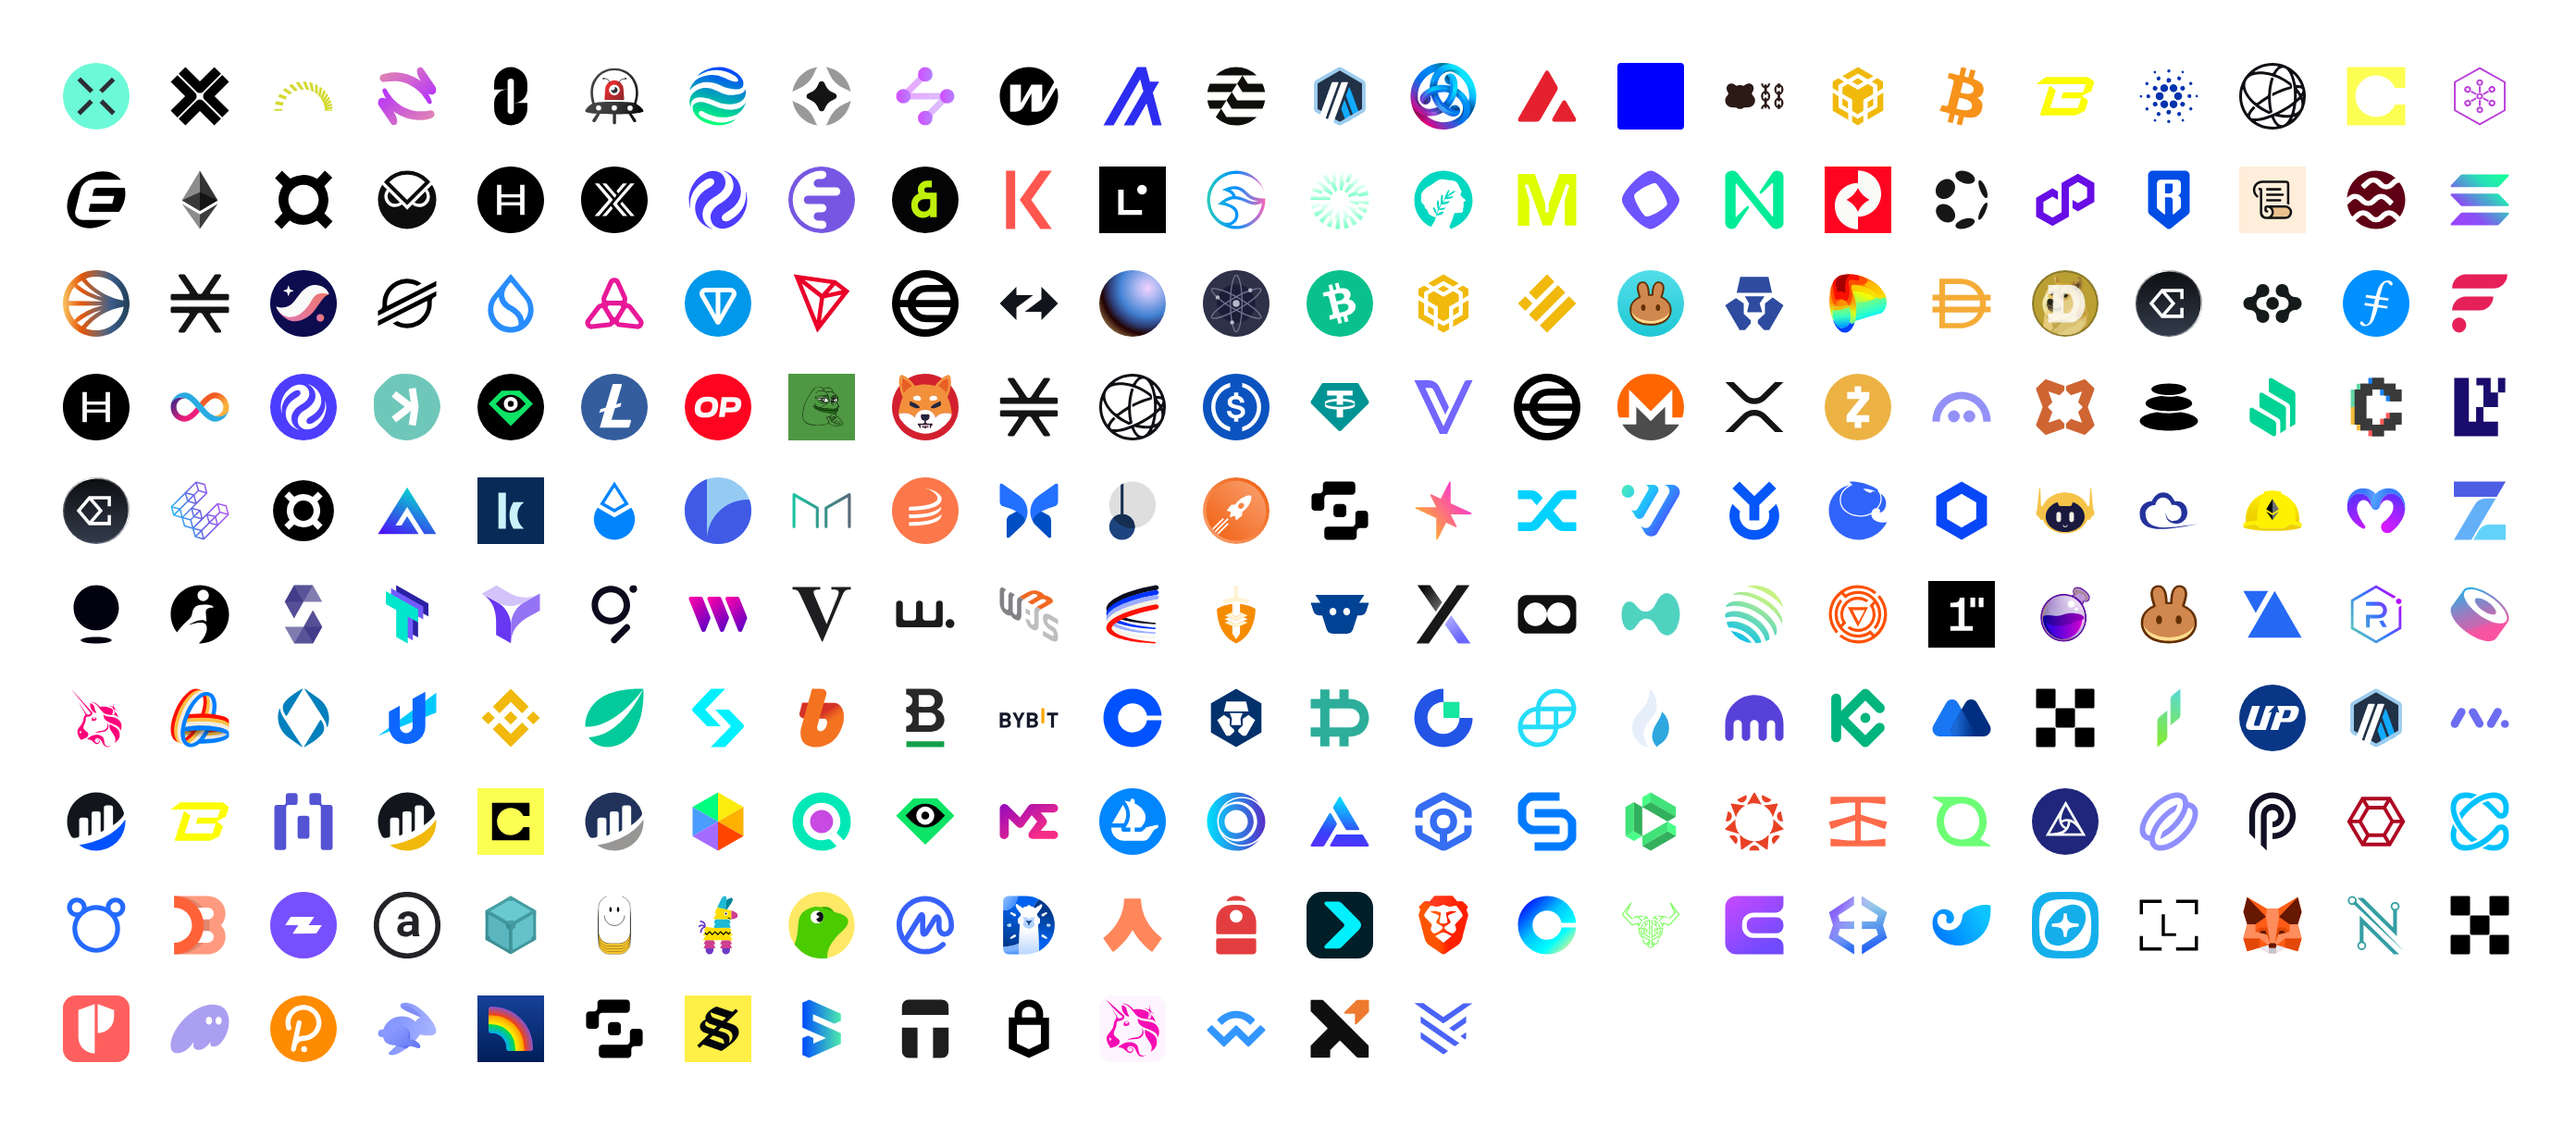
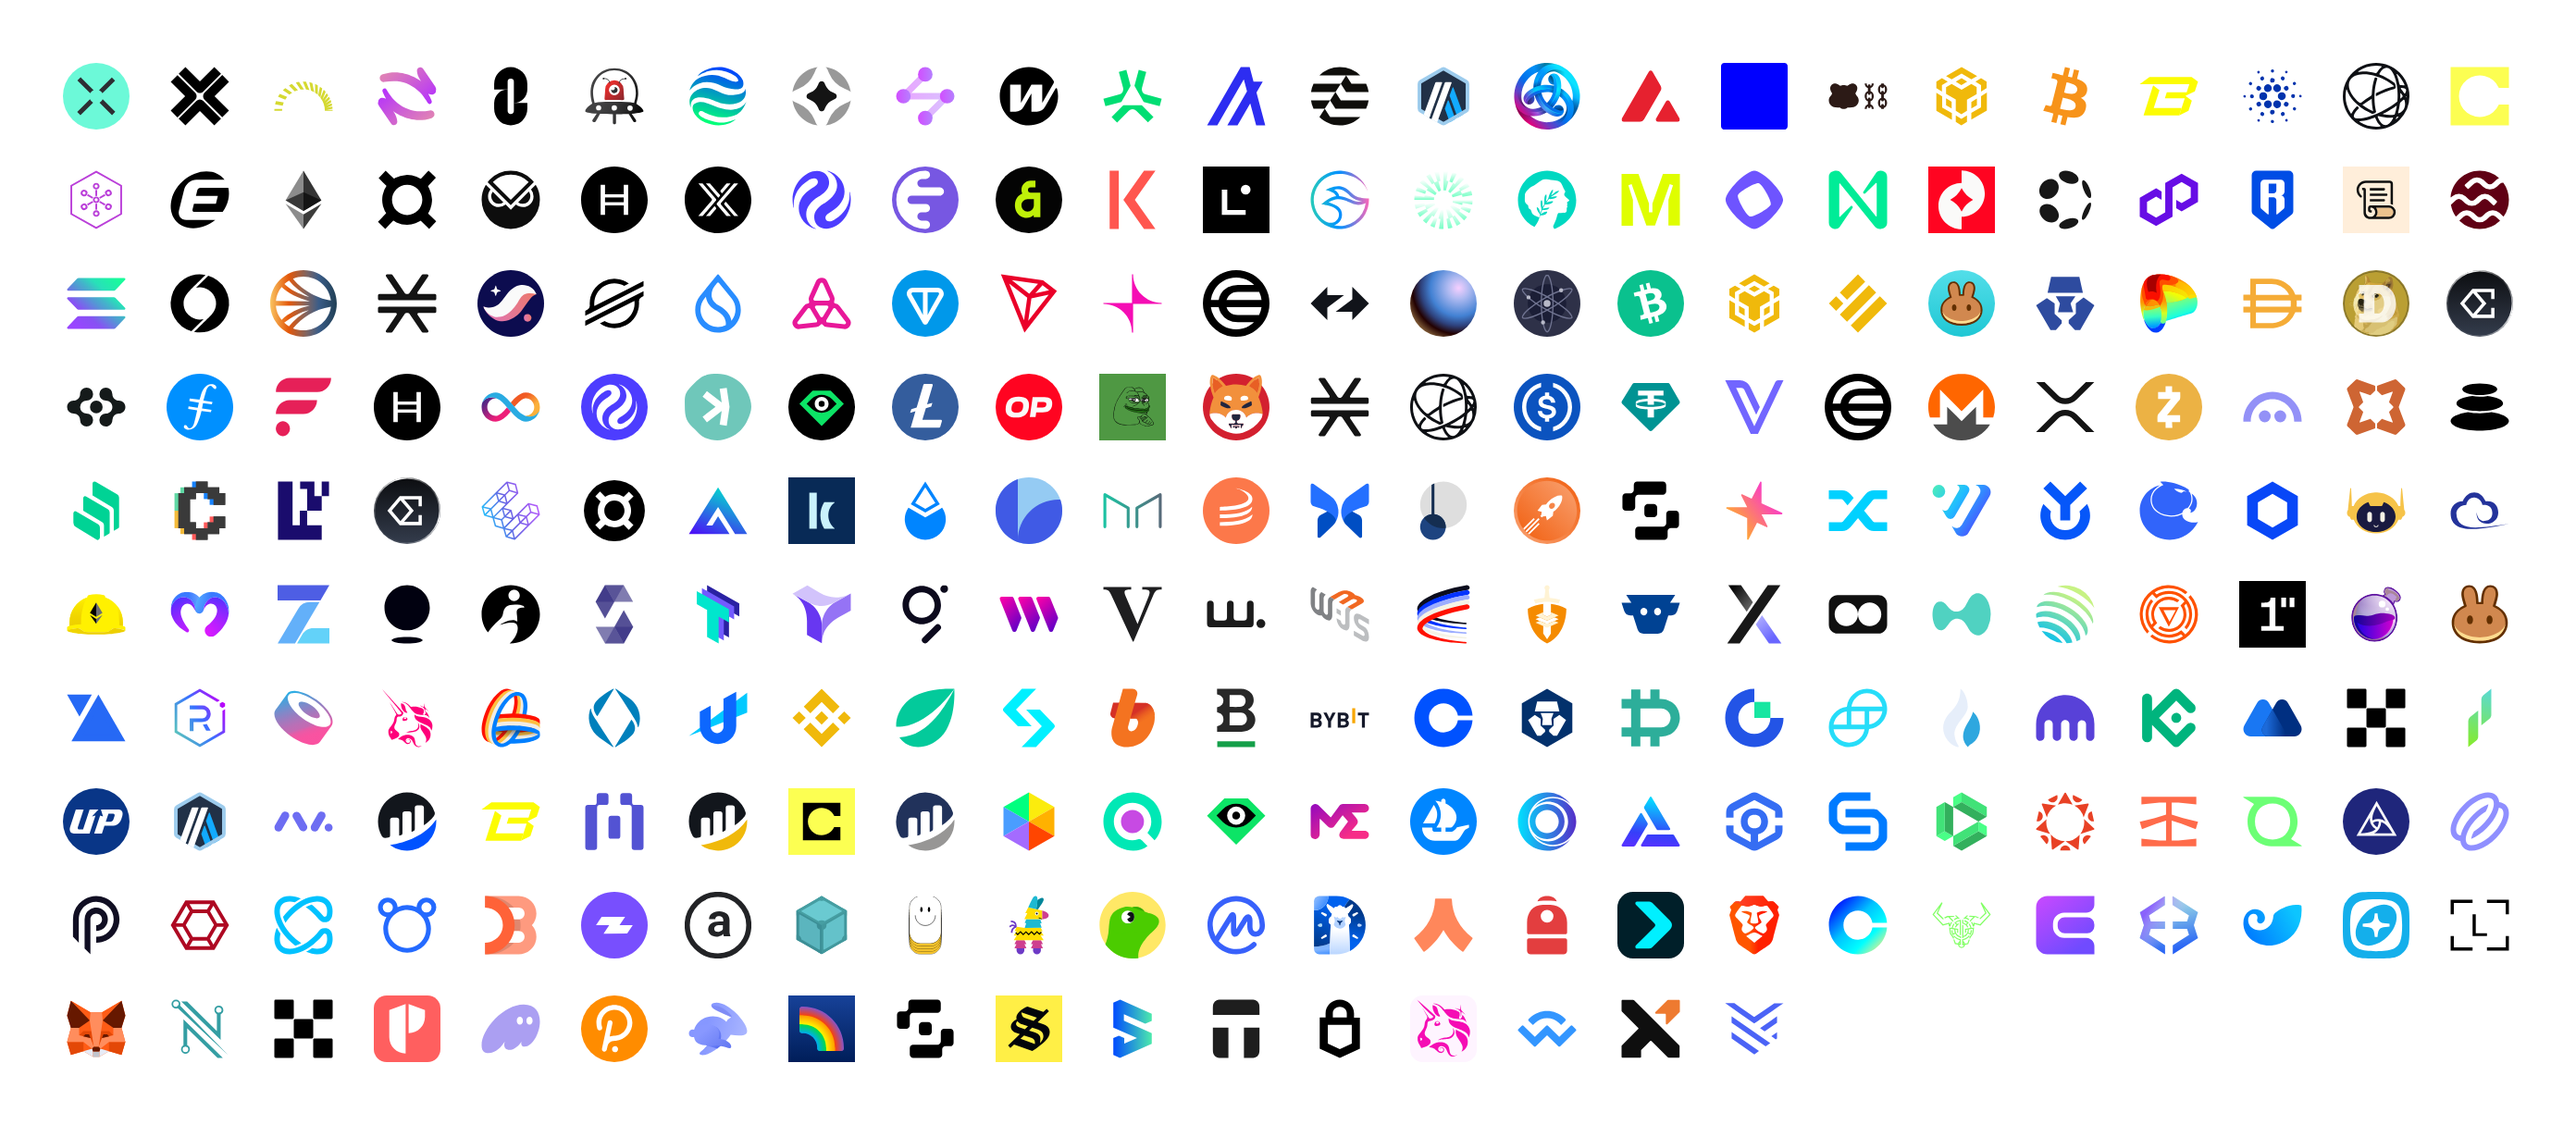
feat(chain): add Unichain, Abstract, Soneium and opBNB (#856)
Unichain (130), Abstract (2741) and Soneium (1868) come from official
brand assets with Default + Mono variants. opBNB (204) re-exports the
BNB Chain symbol it uses as OpBnb / OpBnbMono. Chain IDs verified on
chainlist.org. Story (1514) is not added: it has rebranded to DATA
Network.

Refs #706

Claude-Session: https://claude.ai/code/session_0113jxgcTGsEPf2j7H39sjZS

Changed region(s): [[0.0, 0.0312, 1.0, 0.9688]]

diff --git a/src/chain/Soneium.tsx b/src/chain/Soneium.tsx
@@ -1,0 +1,29 @@
+import { createIcon } from '../utils';
+
+// Source: https://docs.soneium.org/img/favicon.svg (official docs site; the soneium.org brand kit is gated behind a request form)
+// Symbol paths of the docs favicon without its white backing disc and its no-op clip paths (the paths lie inside the clip box). The brand is black and white: the soneium.org header and docs logos render the same symbol in black / currentColor.
+/** Soneium chain icon (colored). */
+export const Soneium = /* @__PURE__ */ createIcon(
+  'Soneium',
+  '0 0 64 64',
+  () => (
+    <>
+      <path d="M35.58 47.08a15.6 15.6 0 0 1-7.83-.15A15.6 15.6 0 0 1 21 42.98a15 15 0 0 1-4.53-8.9 15 15 0 0 1 2.1-9.77 26 26 0 0 1 4.22-5.2c5.16-5.13 14.64-14.45 14.64-14.45A28 28 0 0 0 17 8.46a28 28 0 0 0-12.16 16.8A27.8 27.8 0 0 0 7.65 45.8 28 28 0 0 0 23.9 58.7z" />
+      <path d="M28.38 16.94a15.6 15.6 0 0 1 7.83.15 15.6 15.6 0 0 1 6.75 3.93c5.12 5.1 6.12 12.67 2.42 18.66a26 26 0 0 1-4.22 5.2C35.99 50 26.52 59.33 26.52 59.33c7.05 1.4 14.37.05 20.45-3.78s10.44-9.86 12.18-16.82a27.8 27.8 0 0 0-2.83-20.54A28 28 0 0 0 40.04 5.27z" />
+    </>
+  ),
+  { fill: '#000' },
+);
+
+/** Soneium chain icon (monochrome). */
+export const SoneiumMono = /* @__PURE__ */ createIcon(
+  'SoneiumMono',
+  '0 0 64 64',
+  () => (
+    <>
+      <path d="M35.58 47.08a15.6 15.6 0 0 1-7.83-.15A15.6 15.6 0 0 1 21 42.98a15 15 0 0 1-4.53-8.9 15 15 0 0 1 2.1-9.77 26 26 0 0 1 4.22-5.2c5.16-5.13 14.64-14.45 14.64-14.45A28 28 0 0 0 17 8.46a28 28 0 0 0-12.16 16.8A27.8 27.8 0 0 0 7.65 45.8 28 28 0 0 0 23.9 58.7z" />
+      <path d="M28.38 16.94a15.6 15.6 0 0 1 7.83.15 15.6 15.6 0 0 1 6.75 3.93c5.12 5.1 6.12 12.67 2.42 18.66a26 26 0 0 1-4.22 5.2C35.99 50 26.52 59.33 26.52 59.33c7.05 1.4 14.37.05 20.45-3.78s10.44-9.86 12.18-16.82a27.8 27.8 0 0 0-2.83-20.54A28 28 0 0 0 40.04 5.27z" />
+    </>
+  ),
+  { fill: 'currentColor' },
+);

diff --git a/src/dynamic/imports/chain.ts b/src/dynamic/imports/chain.ts
@@ -11,6 +11,8 @@ export const chainImports: Record<
   string,
   () => Promise<Record<string, unknown>>
 > = {
+  Abstract: () => import('../../chain/Abstract'),
+  AbstractMono: () => import('../../chain/Abstract'),
   Algorand: () => import('../../chain/Algorand'),
   AlgorandCircle: () => import('../../chain/Algorand'),
   AlgorandCircleMono: () => import('../../chain/Algorand'),
@@ -113,6 +115,8 @@ export const chainImports: Record<
   MonadMono: () => import('../../chain/Monad'),
   Near: () => import('../../chain/Near'),
   NearMono: () => import('../../chain/Near'),
+  OpBnb: () => import('../../chain/OpBnb'),
+  OpBnbMono: () => import('../../chain/OpBnb'),
   Optimism: () => import('../../chain/Optimism'),
   OptimismCircle: () => import('../../chain/Optimism'),
   OptimismCircleMono: () => import('../../chain/Optimism'),
@@ -139,6 +143,8 @@ export const chainImports: Record<
   SolanaMono: () => import('../../chain/Solana'),
   SolanaSquare: () => import('../../chain/Solana'),
   SolanaSquareMono: () => import('../../chain/Solana'),
+  Soneium: () => import('../../chain/Soneium'),
+  SoneiumMono: () => import('../../chain/Soneium'),
   Sonic: () => import('../../chain/Sonic'),
   SonicMono: () => import('../../chain/Sonic'),
   Stacks: () => import('../../chain/Stacks'),
@@ -159,6 +165,8 @@ export const chainImports: Record<
   TonMono: () => import('../../chain/Ton'),
   Tron: () => import('../../chain/Tron'),
   TronMono: () => import('../../chain/Tron'),
+  Unichain: () => import('../../chain/Unichain'),
+  UnichainMono: () => import('../../chain/Unichain'),
   WorldChain: () => import('../../chain/WorldChain'),
   WorldChainMono: () => import('../../chain/WorldChain'),
   ZkSync: () => import('../../chain/ZkSync'),

diff --git a/src/manifest/index.ts b/src/manifest/index.ts
@@ -140,6 +140,15 @@ export const ICON_MANIFEST: readonly IconManifestEntry[] = [
   },
   { name: 'WormholeMono', category: 'bridge' },
   {
+    name: 'Abstract',
+    category: 'chain',
+    chainId: 2741,
+    slug: 'abstract',
+    variants: ['', 'Mono'],
+    brandColor: '#00de73',
+  },
+  { name: 'AbstractMono', category: 'chain' },
+  {
     name: 'Algorand',
     category: 'chain',
     slug: 'algorand',
@@ -477,6 +486,8 @@ export const ICON_MANIFEST: readonly IconManifestEntry[] = [
     brandColor: '#00ec97',
   },
   { name: 'NearMono', category: 'chain' },
+  { name: 'OpBnb', category: 'chain', chainId: 204, slug: 'opbnb' },
+  { name: 'OpBnbMono', category: 'chain' },
   {
     name: 'Optimism',
     category: 'chain',
@@ -554,6 +565,15 @@ export const ICON_MANIFEST: readonly IconManifestEntry[] = [
   { name: 'SolanaSquare', category: 'chain' },
   { name: 'SolanaSquareMono', category: 'chain' },
   {
+    name: 'Soneium',
+    category: 'chain',
+    chainId: 1868,
+    slug: 'soneium',
+    variants: ['', 'Mono'],
+    brandColor: '#000000',
+  },
+  { name: 'SoneiumMono', category: 'chain' },
+  {
     name: 'Sonic',
     category: 'chain',
     chainId: 146,
@@ -623,6 +643,15 @@ export const ICON_MANIFEST: readonly IconManifestEntry[] = [
     brandColor: '#ea0029',
   },
   { name: 'TronMono', category: 'chain' },
+  {
+    name: 'Unichain',
+    category: 'chain',
+    chainId: 130,
+    slug: 'unichain',
+    variants: ['', 'Mono'],
+    brandColor: '#f50db4',
+  },
+  { name: 'UnichainMono', category: 'chain' },
   {
     name: 'WorldChain',
     category: 'chain',

diff --git a/src/chain/Abstract.tsx b/src/chain/Abstract.tsx
@@ -1,0 +1,31 @@
+import { createIcon } from '../utils';
+
+// Source: https://www.abs.xyz (footer "Brand Kit" link to the official Air board, Logos / Icon / SVG)
+// Default: Abstract_Icon_LightGreen.svg (#00DE73); Mono: Abstract_Icon_Black.svg with fill set to currentColor (same geometry).
+/** Abstract chain icon (colored). */
+export const Abstract = /* @__PURE__ */ createIcon(
+  'Abstract',
+  '0 0 64 64',
+  () => (
+    <>
+      <path d="m40.85 40.72 11.23 11.24-5.27 5.26L35.58 46a5 5 0 0 0-3.6-1.49 5 5 0 0 0-3.6 1.49L17.17 57.23l-5.27-5.28 11.23-11.24z" />
+      <path d="m42.72 37.48 15.34 4.1 1.92-7.2-15.34-4.11a5 5 0 0 1-3.08-2.37 5 5 0 0 1-.51-3.86l4.1-15.34-7.2-1.93-4.1 15.34z" />
+      <path d="m21.26 37.48-15.34 4.1L4 34.39l15.33-4.11a5 5 0 0 0 3.1-2.37 5 5 0 0 0 .5-3.86L18.83 8.7l7.2-1.93 4.1 15.34z" />
+    </>
+  ),
+  { fill: '#00de73' },
+);
+
+/** Abstract chain icon (monochrome). */
+export const AbstractMono = /* @__PURE__ */ createIcon(
+  'AbstractMono',
+  '0 0 64 64',
+  () => (
+    <>
+      <path d="m40.85 40.73 11.23 11.23-5.27 5.27L35.58 46a5 5 0 0 0-3.6-1.5 5 5 0 0 0-3.6 1.5L17.17 57.23l-5.27-5.28 11.23-11.23z" />
+      <path d="m42.72 37.49 15.34 4.1 1.92-7.2-15.34-4.1a5 5 0 0 1-3.08-2.38 5 5 0 0 1-.51-3.86l4.1-15.35-7.2-1.93-4.1 15.35z" />
+      <path d="m21.26 37.49-15.34 4.1L4 34.4l15.33-4.1a5 5 0 0 0 3.1-2.38 5 5 0 0 0 .5-3.86L18.83 8.7l7.2-1.93 4.1 15.35-8.86 15.36z" />
+    </>
+  ),
+  { fill: 'currentColor' },
+);

diff --git a/src/meta/index.ts b/src/meta/index.ts
@@ -30,10 +30,12 @@ export const CHAIN_ID_TO_NAME = {
   25: 'Cronos',
   56: 'BinanceSmartChain',
   100: 'GnosisChain',
+  130: 'Unichain',
   137: 'Polygon',
   143: 'Monad',
   146: 'Sonic',
   169: 'MantaPacific',
+  204: 'OpBnb',
   250: 'Sonic',
   252: 'Fraxtal',
   324: 'ZkSync',
@@ -42,8 +44,10 @@ export const CHAIN_ID_TO_NAME = {
   999: 'Hyperliquid',
   1088: 'Metis',
   1329: 'Sei',
+  1868: 'Soneium',
   2020: 'Ronin',
   2222: 'Kava',
+  2741: 'Abstract',
   5000: 'Mantle',
   8217: 'Kaia',
   8453: 'Base',
@@ -77,6 +81,7 @@ export type ChainId = keyof typeof CHAIN_ID_TO_NAME;
  * ```
  */
 export const CHAIN_SLUG_TO_NAME = {
+  abstract: 'Abstract',
   algorand: 'Algorand',
   aptos: 'Aptos',
   arb1: 'Arbitrum',
@@ -124,6 +129,7 @@ export const CHAIN_SLUG_TO_NAME = {
   mon: 'Monad',
   monad: 'Monad',
   near: 'Near',
+  opbnb: 'OpBnb',
   optimism: 'Optimism',
   polkadot: 'Polkadot',
   polygon: 'Polygon',
@@ -133,6 +139,7 @@ export const CHAIN_SLUG_TO_NAME = {
   scroll: 'Scroll',
   sei: 'Sei',
   solana: 'Solana',
+  soneium: 'Soneium',
   sonic: 'Sonic',
   stacks: 'Stacks',
   starknet: 'StarkNet',
@@ -141,6 +148,7 @@ export const CHAIN_SLUG_TO_NAME = {
   taiko: 'Taiko',
   ton: 'Ton',
   tron: 'Tron',
+  unichain: 'Unichain',
   worldchain: 'WorldChain',
   zk: 'ZkSync',
   zksync: 'ZkSync',

diff --git a/src/chain/Unichain.tsx b/src/chain/Unichain.tsx
@@ -1,0 +1,23 @@
+import { createIcon } from '../utils';
+
+// Source: https://www.unichain.org/brand-kit (official brand kit, https://www.unichain.org/assets/zip/unichain-brand-kit.zip)
+// Default: "Unichain Logo Assets/Unichain Icon - Vibrant.svg" (#F50DB4); Mono: "Unichain Icon - Dark.svg" with fill set to currentColor (same geometry).
+/** Unichain chain icon (colored). */
+export const Unichain = /* @__PURE__ */ createIcon(
+  'Unichain',
+  '0 0 64 64',
+  () => (
+    <path d="M60 31.47c-15.18 0-27.47-12.3-27.47-27.46h-1.06v27.46H4v1.06c15.18 0 27.47 12.3 27.47 27.46h1.06V32.53h27.46z" />
+  ),
+  { fill: '#f50db4' },
+);
+
+/** Unichain chain icon (monochrome). */
+export const UnichainMono = /* @__PURE__ */ createIcon(
+  'UnichainMono',
+  '0 0 64 64',
+  () => (
+    <path d="M60 31.47c-15.18 0-27.47-12.3-27.47-27.46h-1.06v27.46H4v1.06c15.18 0 27.47 12.3 27.47 27.46h1.06V32.53h27.46z" />
+  ),
+  { fill: 'currentColor' },
+);

diff --git a/src/chain/index.ts b/src/chain/index.ts
@@ -1,3 +1,4 @@
+export * from './Abstract';
 export * from './Algorand';
 export * from './Aptos';
 export * from './Arbitrum';
@@ -32,6 +33,7 @@ export * from './Metis';
 export * from './Mode';
 export * from './Monad';
 export * from './Near';
+export * from './OpBnb';
 export * from './Optimism';
 export * from './Polkadot';
 export * from './Polygon';
@@ -39,6 +41,7 @@ export * from './Ronin';
 export * from './Scroll';
 export * from './Sei';
 export * from './Solana';
+export * from './Soneium';
 export * from './Sonic';
 export * from './Stacks';
 export * from './StarkNet';
@@ -47,6 +50,7 @@ export * from './Sui';
 export * from './Taiko';
 export * from './Ton';
 export * from './Tron';
+export * from './Unichain';
 export * from './WorldChain';
 export * from './ZkSync';
 export * from './Zora';

diff --git a/src/chain/OpBnb.tsx b/src/chain/OpBnb.tsx
@@ -1,0 +1,5 @@
+// Source: re-export of BinanceSmartChain — see src/chain/BinanceSmartChain.tsx (opBNB uses the BNB Chain symbol: opbnb.bnbchain.org and docs.bnbchain.org/bnb-opbnb show the BNB Chain logo, and the bnbchain.org/en/brand-guidelines kit, BNBChain-Logo.zip, has no separate opBNB mark)
+export {
+  BinanceSmartChain as OpBnb,
+  BinanceSmartChainMono as OpBnbMono,
+} from './BinanceSmartChain';

diff --git a/.changeset/new-chains-unichain-abstract-soneium-opbnb.md b/.changeset/new-chains-unichain-abstract-soneium-opbnb.md
@@ -1,0 +1,5 @@
+---
+'react-web3-icons': minor
+---
+
+Add chain icons for Unichain (`Unichain`, `UnichainMono`; chain ID 130), Abstract (`Abstract`, `AbstractMono`; 2741) and Soneium (`Soneium`, `SoneiumMono`; 1868) from their official brand assets, and `OpBnb` / `OpBnbMono` for opBNB (204), which re-export the BNB Chain symbol that opBNB uses. All four resolve through `<ChainIcon chainId>` / `<ChainIcon name>` (`unichain`, `abstract`, `soneium`, `opbnb`) and the `react-web3-icons/meta` maps.
